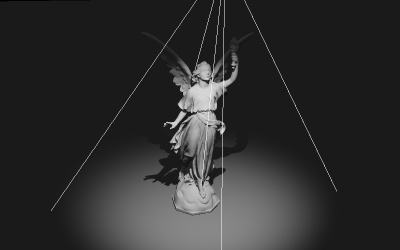
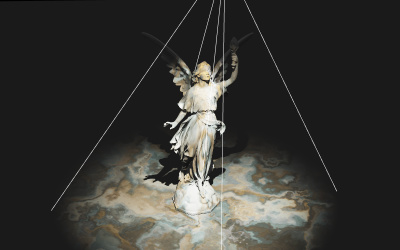
Examples: Improved webgl_lights_spotlight.

Changed region(s): [[0.18, 0.224, 0.81, 1.0], [0.54, 0.056, 0.57, 0.168]]

diff --git a/examples/webgl_lights_spotlight.html b/examples/webgl_lights_spotlight.html
@@ -42,7 +42,7 @@
 
 			function init() {
 
-				renderer = new THREE.WebGLRenderer();
+				renderer = new THREE.WebGLRenderer( { antialias: true } );
 				renderer.setPixelRatio( window.devicePixelRatio );
 				renderer.setSize( window.innerWidth, window.innerHeight );
 				renderer.setAnimationLoop( render );
@@ -69,7 +69,7 @@
 				scene.add( ambient );
 
 				const loader = new THREE.TextureLoader().setPath( 'textures/' );
-				const filenames = [ 'disturb.jpg', 'uv_grid_opengl.jpg', 'colors.png' ];
+				const filenames = [ 'disturb.jpg', 'colors.png', 'uv_grid_opengl.jpg' ];
 
 				const textures = { none: null };
 
@@ -91,6 +91,7 @@
 				spotLight.penumbra = 1;
 				spotLight.decay = 2;
 				spotLight.distance = 100;
+				spotLight.map = textures[ 'disturb.jpg' ];
 
 				spotLight.castShadow = true;
 				spotLight.shadow.mapSize.width = 1024;
@@ -141,7 +142,7 @@
 				const gui = new GUI();
 
 				const params = {
-					map: 'none',
+					map: textures[ 'disturb.jpg' ],
 					color: spotLight.color.getHex(),
 					intensity: spotLight.intensity,
 					distance: spotLight.distance,
